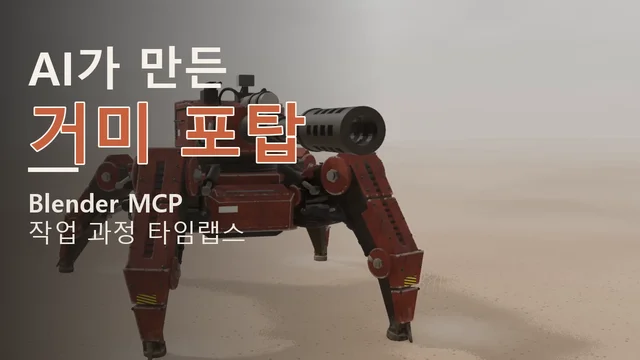
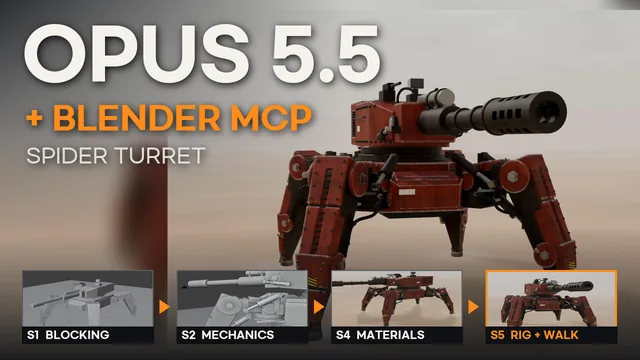
feat: 본편 영상 임베드, 프롬프트 탭(복사·다운로드 분리), S6 단계, 새 표지

diff --git a/spider-turret/index.html b/spider-turret/index.html
@@ -30,6 +30,14 @@ h2{font-size:22px;margin:44px 0 12px;font-weight:800}
 .btns{display:flex;flex-wrap:wrap;gap:10px;margin:16px 0}
 .btn{display:inline-block;padding:10px 18px;border-radius:999px;border:1px solid var(--clay);text-decoration:none;font-weight:600}
 .btn.solid{background:var(--clay);color:#fff}
+button.btn{font:inherit;font-weight:600;background:transparent;color:var(--clay);cursor:pointer}
+button.btn.solid{background:var(--clay);color:#fff}
+.tabs{display:flex;gap:8px;margin:28px 0 14px;border-bottom:1px solid var(--line)}
+.tab{font:inherit;font-weight:600;background:none;border:0;border-bottom:3px solid transparent;color:var(--sub);padding:10px 18px;cursor:pointer}
+.tab.on{color:var(--clay);border-bottom-color:var(--clay)}
+.panel[hidden]{display:none}
+.copy-note{min-height:1.7em;margin:0 0 8px;font-size:14px;color:var(--sub)}
+.promptbox{max-height:420px;overflow:auto;white-space:pre-wrap;word-break:break-word;background:var(--card);border:1px solid var(--line);border-radius:12px;padding:16px;font:13px/1.6 ui-monospace,Consolas,monospace;margin:0}
 .video{aspect-ratio:16/9;background:var(--clay-soft);border:1px dashed var(--clay);border-radius:14px;display:flex;align-items:center;justify-content:center;color:var(--sub);text-align:center;padding:16px}
 .stage{display:grid;grid-template-columns:120px 1fr;gap:18px;padding:20px 0;border-top:1px solid var(--line)}
 .stage .tag{font-weight:800;font-size:28px;color:var(--clay);line-height:1}
@@ -49,24 +57,36 @@ footer{margin-top:56px;font-size:13px;color:var(--sub);border-top:1px solid var(
 <div class="wrap">
   <div class="crumb"><a href="../">Blender MCP 작업</a> / 거미 포탑</div>
   <h1>거미 포탑</h1>
-  <p class="lead">Claude가 Blender MCP로 Blender 5.2를 직접 조작해 만든 사족 보행 포탑입니다. 사람은 레퍼런스 이미지 2장과 단계별 프롬프트를 주고, 모델링·재질·리깅·걷기 애니메이션은 AI가 도구 호출로 한 단계씩 만들었습니다.</p>
-  <img class="cover" src="img/cover.webp" alt="사막에 선 붉은 장갑의 사족 보행 포탑">
+  <p class="lead">Claude Opus 5.5가 Blender MCP로 Blender 5.2를 직접 조작해 만든 사족 보행 포탑입니다. 사람은 레퍼런스 이미지 2장과 단계별 프롬프트를 주고, 모델링·재질·리깅·걷기 애니메이션은 Claude Opus 5.5가 도구 호출로 한 단계씩 만들었습니다. 그 뒤 같은 모델을 Unity용 게임 에셋으로 바꿨습니다(S6).</p>
+  <img class="cover" src="img/cover.webp" alt="OPUS 5.5 + BLENDER MCP, SPIDER TURRET. 사막에 선 붉은 사족 보행 포탑과 작업 단계 네 컷">
 
   <div class="nums">
-    <div class="num"><b>5</b><span>단계 세션 (S1~S5)</span></div>
+    <div class="num"><b>6</b><span>단계 세션 (S1~S6)</span></div>
     <div class="num"><b>1:57:28</b><span>녹화 합계</span></div>
-    <div class="num"><b>7:44</b><span>타임랩스 본편</span></div>
+    <div class="num"><b>1:32</b><span>타임랩스 본편</span></div>
     <div class="num"><b>234</b><span>최종 객체 수 (뼈 68)</span></div>
   </div>
 
-  <div class="btns">
-    <a class="btn solid" href="https://github.com/saltlake00/blender-mcp-works/blob/main/spider-turret/prompt.md">프롬프트 전문 보기</a>
-    <a class="btn" href="prompt.md" download>prompt.md 내려받기</a>
-    <a class="btn" href="#video">영상</a>
+  <div class="tabs" role="tablist" aria-label="영상과 프롬프트">
+    <button class="tab on" role="tab" id="tab-video" aria-selected="true" aria-controls="panel-video" data-tab="video">영상</button>
+    <button class="tab" role="tab" id="tab-prompt" aria-selected="false" aria-controls="panel-prompt" data-tab="prompt">프롬프트</button>
   </div>
 
-  <h2 id="video">영상</h2>
-  <div class="video">유튜브 업로드 후 여기에 본편을 넣습니다<br>(&lt;본편 주소&gt;)</div>
+  <div class="panel" role="tabpanel" id="panel-video" aria-labelledby="tab-video">
+    <div class="video" style="padding:0;overflow:hidden"><iframe src="https://www.youtube.com/embed/-L1CIApL3Mc" title="Modeling a Spider Turret — Claude Opus 5.5 × Blender MCP" style="width:100%;height:100%;border:0" allow="encrypted-media; picture-in-picture" allowfullscreen loading="lazy"></iframe></div>
+    <p><a href="https://youtu.be/-L1CIApL3Mc" target="_blank" rel="noopener">유튜브에서 보기 ↗</a></p>
+  </div>
+
+  <div class="panel" role="tabpanel" id="panel-prompt" aria-labelledby="tab-prompt" hidden>
+    <p class="lead" style="margin-bottom:12px">이 작업에 쓴 프롬프트 전문입니다. 복사해서 바로 붙여 넣거나, 파일로 받을 수 있습니다.</p>
+    <div class="btns">
+      <button class="btn solid" type="button" id="copyPrompt">클립보드에 복사</button>
+      <a class="btn" href="prompt.md" download="prompt.md">prompt.md 파일 받기</a>
+      <a class="btn" href="https://github.com/saltlake00/blender-mcp-works/blob/main/spider-turret/prompt.md" target="_blank" rel="noopener">GitHub에서 보기 ↗</a>
+    </div>
+    <p class="copy-note" id="copyNote" role="status" aria-live="polite"></p>
+    <pre class="promptbox" id="promptText" tabindex="0">불러오는 중…</pre>
+  </div>
 
   <h2>단계</h2>
   <div class="stage">
@@ -94,17 +114,55 @@ footer{margin-top:56px;font-size:13px;color:var(--sub);border-top:1px solid var(
     <div><h3>리그·걷기·퇴장</h3><p>뼈 68개, 다리마다 IK. 대각 보행으로 걸어 9.5초에 화면 밖으로 나갑니다. 전면이 얼굴처럼 보인다는 의견을 받아 발광 렌즈와 V자 슬릿을 바꿨습니다.</p>
       <div class="shots"><figure><img src="img/s5-walkoff-frames.webp" alt="10초 퇴장 애니메이션 프레임 모음"><figcaption>퇴장 프레임</figcaption></figure><figure><img src="img/s5-front-before.webp" alt="수정 전 전면, 얼굴처럼 보이던 모습"><figcaption>전면 수정 전</figcaption></figure><figure><img src="img/s5-front-after.webp" alt="수정 후 전면"><figcaption>전면 수정 후</figcaption></figure></div></div>
   </div>
+  <div class="stage">
+    <div class="tag">S6<small>녹화 1:22:30 → 0:52</small></div>
+    <div><h3>게임 에셋</h3><p>녹화용 모델(124,002 삼각형)을 Unity용 28,526 삼각형으로 줄이고, 볼트·표식은 2048 텍스처 4장으로 구웠습니다. 제약으로 움직이던 리그는 키프레임으로 구워 액션 5개(Idle·Walk·Turn L/R·Fire)를 만들었고, 포탑 선회·포신 고각은 엔진이 따로 돌립니다. 걷기 1.2m/s·회전 20°/s는 실측한 관절 충돌 한계 안에서 골랐습니다.</p>
+      <div class="shots"><figure><img src="img/s6-original-vs-game.webp" alt="원본 모델과 게임용 저폴리 모델을 같은 카메라로 나란히 비교"><figcaption>원본(왼쪽)과 게임용 저폴리</figcaption></figure><figure><img src="img/s6-showcase-frames.webp" alt="게임 액션 시연 녹화에서 뽑은 프레임 모음"><figcaption>게임 액션 시연</figcaption></figure></div></div>
+  </div>
 
   <h2>사용 도구</h2>
   <ul class="tools">
-    <li>Blender 5.2 — EEVEE 뷰포트만, 오프라인 렌더 없음</li>
+    <li>Blender 5.2 — 작업 과정은 EEVEE 뷰포트 녹화, 영상 첫 걷기 장면만 EEVEE로 다시 렌더</li>
     <li>Blender MCP — Claude가 Blender를 조작하는 연결</li>
-    <li>Claude Code — 단계마다 새 세션, 끊기면 진행 파일로 이어 감</li>
+    <li>Claude Opus 5.5 (Claude Code) — 단계마다 새 세션, 끊기면 진행 파일로 이어 감</li>
     <li>VARCO 3D — 레퍼런스 이미지 2장(hero 렌더, 설계 시트)</li>
-    <li>OBS Studio·ffmpeg — 녹화, AI가 생각하며 멈춘 구간 자르기</li>
+    <li>OBS Studio·ffmpeg — 녹화, Claude가 생각하며 멈춘 구간 자르기</li>
   </ul>
 
   <footer>작성 2026-10-21 · <a href="../">Blender MCP 작업 목록</a></footer>
 </div>
+<script>
+(function(){
+  var tabs=document.querySelectorAll('.tab');
+  function show(name){
+    tabs.forEach(function(t){var on=t.dataset.tab===name;t.classList.toggle('on',on);t.setAttribute('aria-selected',on?'true':'false')});
+    document.getElementById('panel-video').hidden=name!=='video';
+    document.getElementById('panel-prompt').hidden=name!=='prompt';
+    if(name==='prompt')load();
+  }
+  tabs.forEach(function(t){t.addEventListener('click',function(){show(t.dataset.tab)})});
+  var cache=null;
+  function load(){
+    if(cache!==null)return Promise.resolve(cache);
+    return fetch('prompt.md').then(function(r){if(!r.ok)throw new Error(r.status);return r.text()}).then(function(s){
+      cache=s;document.getElementById('promptText').textContent=s;return s;
+    }).catch(function(){
+      document.getElementById('promptText').textContent='프롬프트를 불러오지 못했습니다. 위의 「GitHub에서 보기」나 「prompt.md 파일 받기」를 써 주세요.';
+      throw new Error('load');
+    });
+  }
+  var note=document.getElementById('copyNote');
+  function done(msg){note.textContent=msg;setTimeout(function(){note.textContent=''},3000)}
+  document.getElementById('copyPrompt').addEventListener('click',function(){
+    load().then(function(text){
+      if(navigator.clipboard&&window.isSecureContext){return navigator.clipboard.writeText(text)}
+      var ta=document.createElement('textarea');ta.value=text;ta.style.position='fixed';ta.style.opacity='0';
+      document.body.appendChild(ta);ta.select();var ok=document.execCommand('copy');document.body.removeChild(ta);
+      if(!ok)throw new Error('copy');
+    }).then(function(){done('복사했습니다. 붙여 넣으면 됩니다.')}).catch(function(){done('복사하지 못했습니다. 아래 글을 직접 선택해 복사하거나 파일로 받아 주세요.')});
+  });
+  if(location.hash==='#prompt')show('prompt');
+})();
+</script>
 </body>
 </html>

diff --git a/index.html b/index.html
@@ -33,7 +33,7 @@ footer{margin-top:48px;font-size:13px;color:var(--sub)}
   <p class="lead">Claude가 Blender MCP로 Blender를 직접 조작해 만든 작업을 모읍니다. 작업마다 단계 세션 기록, 타임랩스 영상, 그때 쓴 프롬프트 전문을 둡니다.</p>
   <div class="grid">
     <a class="card" href="spider-turret/">
-      <img src="spider-turret/img/cover.webp" alt="거미 포탑 완성 모습">
+      <img src="spider-turret/img/cover.webp" alt="OPUS 5.5 + BLENDER MCP, SPIDER TURRET 썸네일">
       <div><b>거미 포탑</b><p>사족 보행 포탑. 블로킹부터 10초 걷기·퇴장까지 다섯 단계.</p><div class="meta">2026-10-21 · 5단계 · 영상 7:44 · 프롬프트 공개</div></div>
     </a>
   </div>
